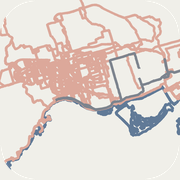
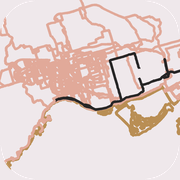
runs2026: new palette

diff --git a/assets/runs2026/runs2026.js b/assets/runs2026/runs2026.js
@@ -16,12 +16,14 @@
 
   const THEMES = {
     light: {
-      bg: '#f0efe9', trace: '194,74,51', race: '112,120,132', road: '60,64,72', lake: '58,90,128', label: '118,123,133',
-      wallFill: 0.16, raceFill: 0.24, mapLine: 0.42, roadA: 0.15, streetA: 0.075, lakeA: 0.5,
+      bg: '#efe8eb', trace: '207,92,54', race: '17,17,17', road: '60,60,60', lake: '176,128,60', label: '124,124,124',
+      wall: '232,176,96', raceWall: '17,17,17',
+      wallFill: 0.34, raceFill: 0.14, mapLine: 0.5, roadA: 0.14, streetA: 0.07, lakeA: 0.6,
     },
     dark: {
-      bg: '#0e0f12', trace: '226,106,82', race: '196,201,208', road: '160,164,172', lake: '140,164,190', label: '140,137,129',
-      wallFill: 0.2, raceFill: 0.3, mapLine: 0.46, roadA: 0.16, streetA: 0.075, lakeA: 0.42,
+      bg: '#0b0b0b', trace: '216,104,66', race: '239,200,139', road: '150,150,150', lake: '238,229,233', label: '124,124,124',
+      wall: '216,104,66', raceWall: '239,200,139',
+      wallFill: 0.2, raceFill: 0.3, mapLine: 0.5, roadA: 0.16, streetA: 0.075, lakeA: 0.32,
     },
   };
   let theme = THEMES.light;
@@ -231,7 +233,7 @@
   function drawItem(it) {
     const r = it.r, rgb = r.m ? theme.race : theme.trace, land = it.land;
     if (it.wall) {
-      ctx.fillStyle = `rgba(${rgb},${(r.m ? theme.raceFill : theme.wallFill) * (1 - land)})`;
+      ctx.fillStyle = `rgba(${r.m ? theme.raceWall : theme.wall},${(r.m ? theme.raceFill : theme.wallFill) * (1 - land)})`;
       fillWall(r.b, r.tp, r.n);
       ctx.strokeStyle = `rgba(${rgb},${0.28 * (1 - land)})`;
       ctx.lineWidth = 0.7;

diff --git a/_pages/runs2026.html b/_pages/runs2026.html
@@ -13,7 +13,7 @@ sitemap: true
   <meta name="description" content="Every run of a year of marathon training in Toronto, from a grid of squiggles to a tower to the map.">
   <meta property="og:title" content="Every Run, 2026">
   <meta property="og:description" content="A year of marathon training in Toronto, one route at a time.">
-  <meta name="theme-color" content="#f0efe9">
+  <meta name="theme-color" content="#efe8eb">
   <link rel="icon" type="image/png" sizes="32x32" href="{{ '/assets/runs2026/favicon-32.png' | relative_url }}">
   <link rel="icon" type="image/png" sizes="64x64" href="{{ '/assets/runs2026/favicon-64.png' | relative_url }}">
   <link rel="apple-touch-icon" href="{{ '/assets/runs2026/apple-touch-icon.png' | relative_url }}">

diff --git a/assets/runs2026/runs2026.css b/assets/runs2026/runs2026.css
@@ -1,16 +1,16 @@
 :root {
-  --bg: #f0efe9;
-  --ink: #2a2d33;
-  --ink-dim: #858a94;
-  --accent: #c24a33;
+  --bg: #efe8eb;
+  --ink: #111111;
+  --ink-dim: #7c7c7c;
+  --accent: #cf5c36;
   --mono: 'IBM Plex Mono', ui-monospace, 'SF Mono', Menlo, Consolas, monospace;
 }
 
 :root[data-theme="dark"] {
-  --bg: #0e0f12;
-  --ink: #d9d4c8;
-  --ink-dim: #7a776f;
-  --accent: #e26a52;
+  --bg: #0b0b0b;
+  --ink: #eee5e9;
+  --ink-dim: #7c7c7c;
+  --accent: #efc88b;
 }
 
 * { box-sizing: border-box; }
